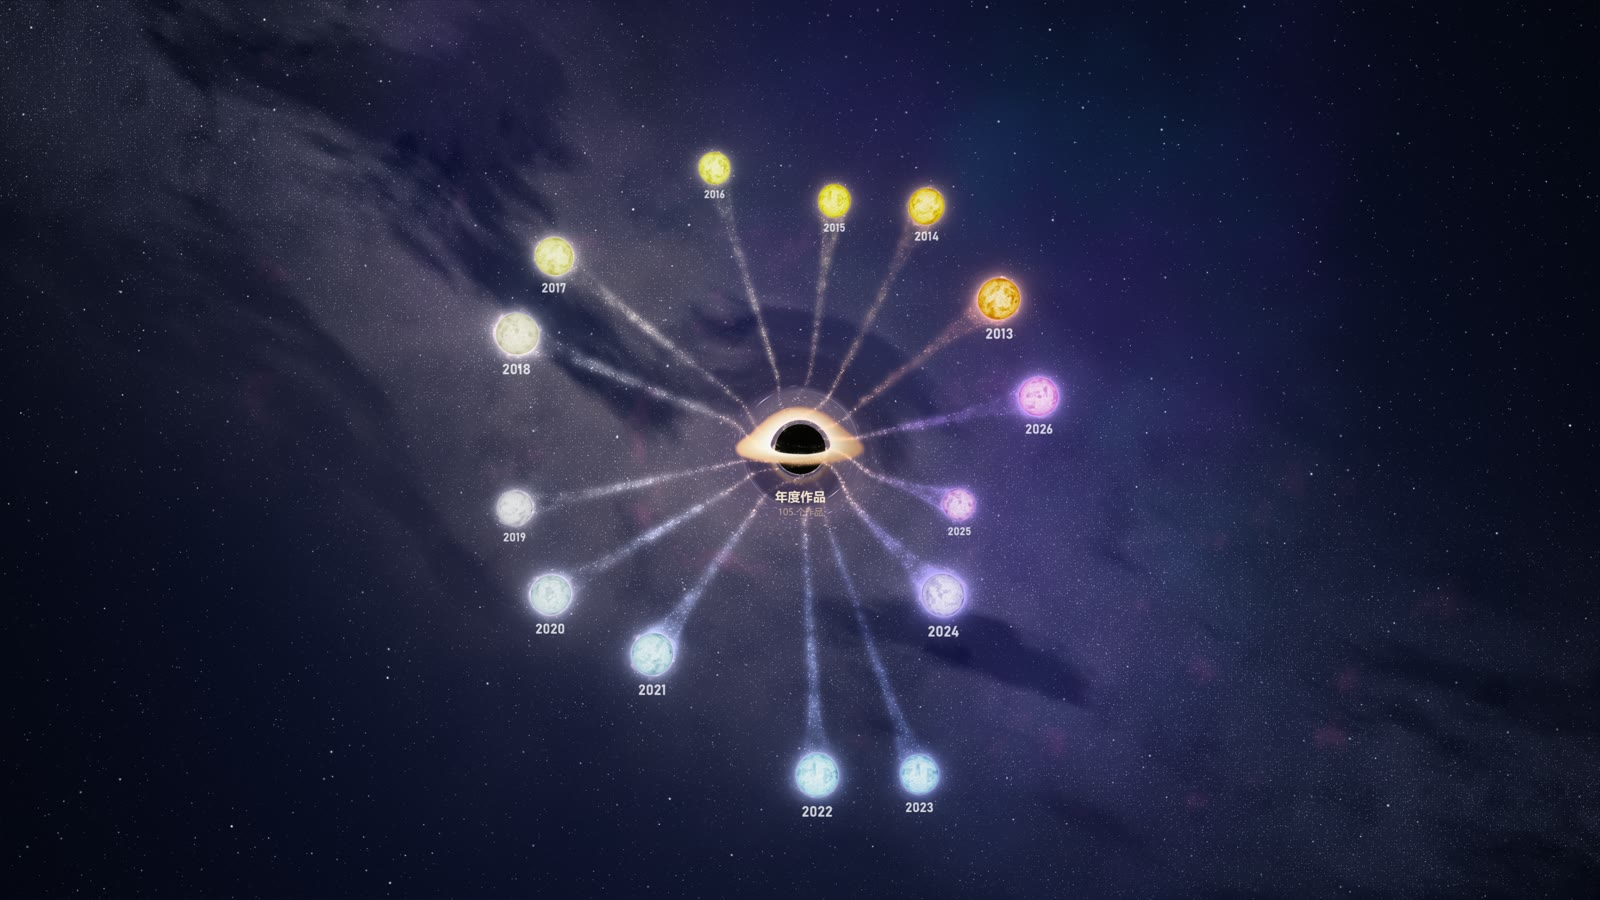
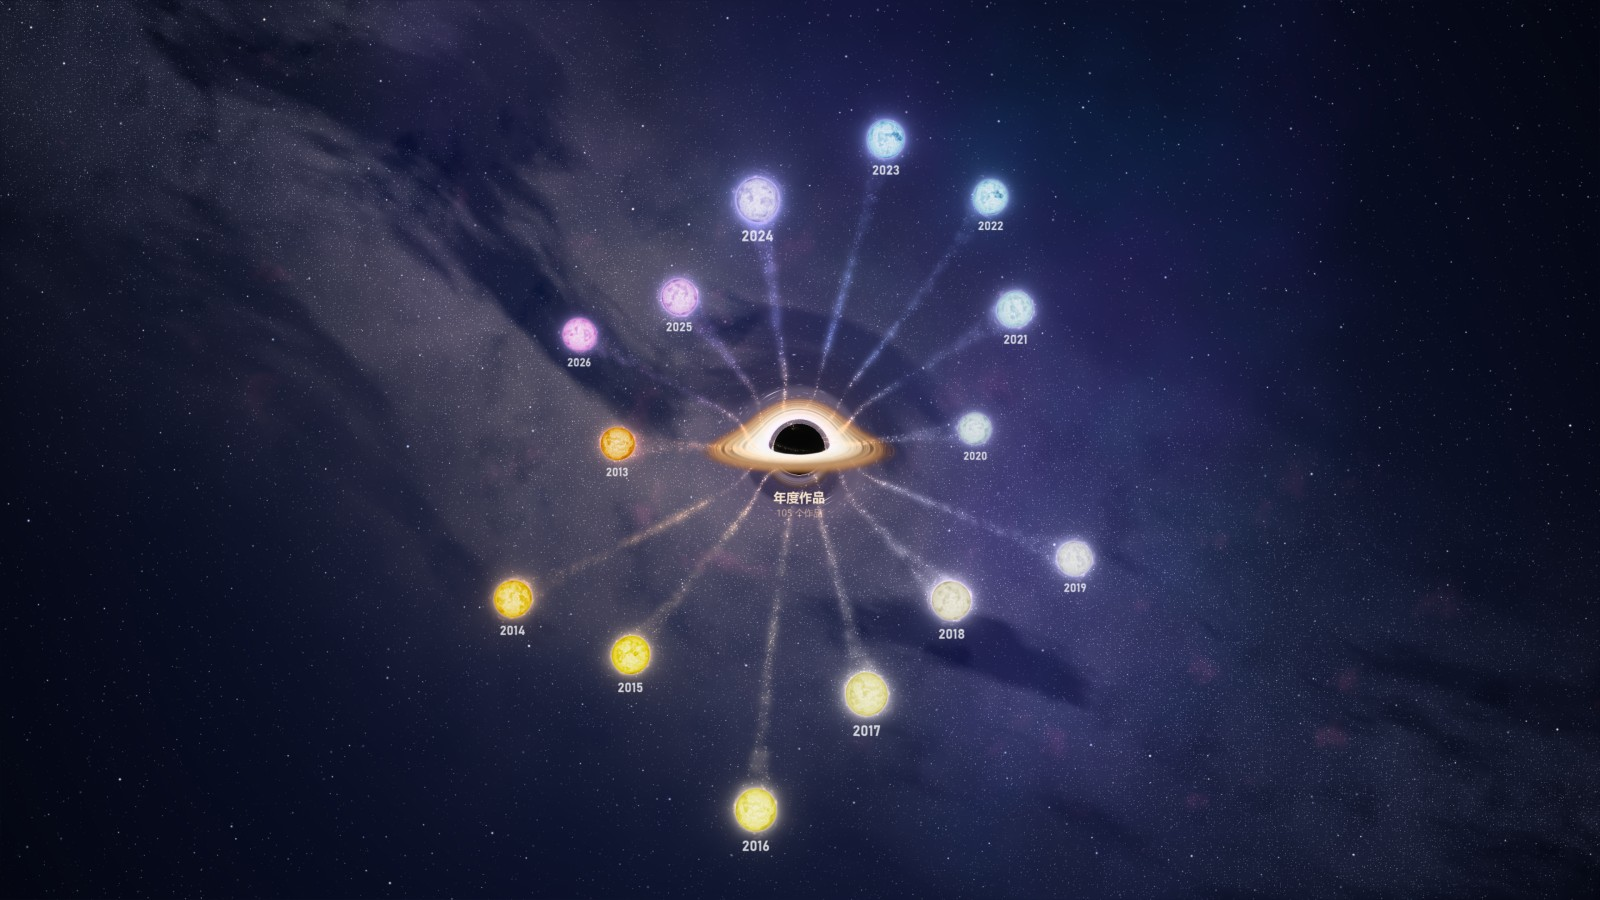
定版 v2026.10.27.1：整理代码（去掉调参用的开关，画面逐像素不变）；README 更新截图、补上 HDR 和 hdr.py

Changed region(s): [[0.2812, 0.1244, 0.6875, 0.9644], [0.625, 0.5911, 0.6875, 0.6533], [0.375, 0.5911, 0.4062, 0.6222]]

diff --git a/shaders.py b/shaders.py
@@ -168,39 +168,20 @@ float fbm4(vec2 p){ float v = 0., a = .5; for (int i = 0; i < 4; i++){ v += a * 
 const float R_IN = 2.3, R_OUT = 6.2;
 // 盘的外缘：全图 R_OUT_MAP、近景 R_OUT_CINE（见 Python 里的 DISK_OUT_*）。
 // 亮度、颜色、厚度按“缩回 R_OUT 大小后的半径” rn 算，大盘就是把原来的样子等比例拉宽；转速、多普勒、细丝按真实半径
-#ifndef R_OUT_MAP
-#define R_OUT_MAP DISK_OUT_MAP_
-#endif
-#ifndef R_OUT_CINE
-#define R_OUT_CINE DISK_OUT_CINE_
-#endif
-#ifndef TH_POW
-#define TH_POW 0.0
-#endif
+#define R_OUT_MAP ''' + repr(DISK_OUT_MAP) + '''
+#define R_OUT_CINE ''' + repr(DISK_OUT_CINE) + '''
 float ROUT = R_OUT, SC = 1.0;                               // 这一帧的盘外缘、拉宽了几倍（main 里按近景程度设）
 float rnorm(float rr){ return R_IN + (rr - R_IN) / SC; }
 // 星际穿越的样子：亮度往外掉得快（内圈白热、外圈暗成琥珀褐），沿轨道拉长的细丝（STREAK_F 每单位半径几道，
-// STREAK_MIX 改密度、STREAK_EMIT 改亮度），多普勒两边的差别减半（电影里几乎没有一边亮一边暗）。调参时可以在前面先 #define 覆盖
-#ifndef DISK_FALL
+// STREAK_MIX 改密度、STREAK_EMIT 改亮度），多普勒两边的差别减半（电影里几乎没有一边亮一边暗）
 #define DISK_FALL 2.6
-#endif
-#ifndef DISK_GAIN
 #define DISK_GAIN 2.4
-#endif
-#ifndef STREAK_F
 #define STREAK_F 5.0
-#endif
-#ifndef STREAK_MIX
 #define STREAK_MIX 0.7
-#endif
-#ifndef STREAK_EMIT
 #define STREAK_EMIT 0.7
-#endif
-#ifndef DOP_K
 #define DOP_K 0.5
-#endif
 // 盘有厚度（不是一张纸）：半厚度内薄外厚，外缘微微鼓起
-float halfH(float rr){ return (0.04 + 0.045 * (clamp(rnorm(rr), R_IN, R_OUT) - R_IN)) * pow(SC, TH_POW); }    // 拉宽时厚度不跟着等比例加厚，看起来更薄更开阔
+float halfH(float rr){ return 0.04 + 0.045 * (clamp(rnorm(rr), R_IN, R_OUT) - R_IN); }    // 拉宽时厚度不跟着加厚，看起来更薄更开阔
 // 盘里一点的发光颜色（rgb）和密度（a）
 vec4 disk(vec3 hit, float rr, vec3 v){
     float phi = atan(hit.z, hit.x);
@@ -322,8 +303,7 @@ void main(){
           + HL_GULP * vec3(1.0, 0.7, 0.45) * hv * hv * exp(-max(rq - 1.6, 0.0) * 1.2) * (1.0 - alpha)) * op * win;
 }
 '''
-HOLE_FS = with_hl(HOLE_FS.replace('#version 330', '#version 330\n' + HL_DEFS, 1)
-                  .replace('DISK_OUT_MAP_', repr(DISK_OUT_MAP)).replace('DISK_OUT_CINE_', repr(DISK_OUT_CINE)))
+HOLE_FS = with_hl(HOLE_FS.replace('#version 330', '#version 330\n' + HL_DEFS, 1))
 
 # 恒星：照着太阳实拍的样子——会自转的球面上有米粒状的对流元胞、明暗斑、几个黑子（本影 + 半影），边缘变暗偏红，
 # 边上一圈色球层和一缕缕往外喷的日珥，外面是带放射状亮纹的日冕。朝黑洞那一侧被潮汐轻轻拉出一点，物质从那里被吸走
@@ -332,12 +312,8 @@ STAR_FS = '''
 #define STAR_EXPO 0.85
 #define PALE_K 0.8
 #define PALE_SAT 1.0
-#ifndef STAR_SPIN
 #define STAR_SPIN 0.1
-#endif
-#ifndef RIM_K
 #define RIM_K 0.9
-#endif
 #define GRAIN ''' + repr(GRAIN) + '''
 #define GRAIN_SPAN ''' + repr(GRAIN_SPAN) + '''
 #define GRAIN_GO ''' + repr(GRAIN_GO) + '''

diff --git a/mindmap.py b/mindmap.py
@@ -27,7 +27,6 @@ STAR_COLORS = ['#ff9a5c', '#ffc46b', '#ffe6a8', '#fff4e0', '#e4ecff', '#b9cfff',
 DISK_COLOR = QColor('#ffb36b')        # 黑洞吸积盘的颜色，中心到年份的光线从这个颜色开始
 
 SS = 2                    # 超采样倍数（内部按几倍分辨率画）
-HOLE_RES = 1.0            # 黑洞光追按屏幕分辨率的几倍画（最费显卡的一遍；0.75 倍省约 30%，但放大看会糊，用户要清楚）
 MAX_TEX = 4096            # 内部画布最大边长
 # 内部 HDR：中间画布都是 16 位浮点，叠加的光不会被截断，很淡的粒子也不会被舍掉；最后一遍统一加辉光、压亮度、抖动（FINAL_FS）。
 # 辉光从画面里比 BLOOM_T 亮的部分取（文字不算），BLOOM_LEVELS 层由近到远的柔光，BLOOM_K 是强度
@@ -1245,8 +1244,7 @@ class MindMap(QWidget):
         """黑洞逐像素追光线很费显卡，而且画面本身很柔和：按屏幕原分辨率单独画（像素少 4 倍），再放大叠进超采样画布。"""
         ctx = self.ctx
         vw, vh = self.width(), self.height()
-        hs = HOLE_RES                           # 黑洞画面很柔和，再低一点分辨率画也看不出来
-        hw_, hh_ = max(1, int(vw * dpr * hs)), max(1, int(vh * dpr * hs))
+        hw_, hh_ = max(1, int(vw * dpr)), max(1, int(vh * dpr))
         on = self._out[0]
         hname = 'hole_hl' if on else 'hole'
         hfbo, _, htex = self._offscreen(hname, hw_, hh_, hl=on)

diff --git a/app.py b/app.py
@@ -13,7 +13,7 @@ from widgets import EditDialog
 from mindmap import MindMap
 from fluent_ui import make_app, Window, show_window, single_instance
 
-VERSION = '2026.10.27'                    # 日历版本号：发布当天的日期，同一天再发就加 .1、.2
+VERSION = '2026.10.27.1'                    # 日历版本号：发布当天的日期，同一天再发就加 .1、.2
 ACCENT = '#29c4f6'                        # 导图是深色霓虹风，界面固定用深色 + 青色主题色
 
 

diff --git a/README.md b/README.md
@@ -2,7 +2,7 @@
 
 记录每年喜欢的作品，画成一张会动的星图。Windows 桌面程序，记录只存在自己电脑上，不联网、不上传。
 
-中间是黑洞，每一年是一颗恒星，点恒星展开这一年的分类和作品；整张图用显卡着色器实时渲染。
+中间是黑洞，每一年是一颗恒星，点恒星展开这一年的分类和作品；整张图用显卡着色器实时渲染，HDR 显示器上直接输出 HDR。
 
 ![全图](docs/全图.jpg)
 
@@ -13,11 +13,12 @@
 - **按年份记录「年度作品」**：文学作品 / 音乐 / 小说 / 电视剧 / 电影 / 动漫 / 综艺 / 鬼畜/梗 / 游戏
 - **每个作品**：名字、作者（歌手 / 作者）、10 星评分、短评、封面（拖图片进去或 Ctrl+V 粘贴截图），鼠标放在作品上显示封面
 - **星图**：
-  - 光线追踪的黑洞（吸积盘、光子环、背景星空的引力透镜）
+  - 光线追踪的黑洞（参考《星际穿越》的宽吸积盘、光子环、背景星空的引力透镜）
   - 恒星表面翻涌，物质流从恒星流进黑洞
   - 分类和作品是半透明黑水晶胶囊，收起时碎成晶尘
   - 点黑洞，所有恒星碎成颗粒被吸进去；再点一次从黑洞里喷出来，重新凝成恒星
   - 全图里可以拖动恒星，拖到黑洞跟前松手会单独收进去
+- **HDR**：Windows 设置里打开 HDR 时，吸积盘、恒星、文字会比白色更亮（最亮约 750 尼特，显示器峰值更低时按显示器的）；普通显示器照常显示
 - **从 MarginNote 3 导入**：以前用 MarginNote 做过「每年看过的作品」思维导图的，可以「导出到 OmniOutliner」后导入（也支持 OPML）
 
 ## 下载使用（不用装 Python）
@@ -56,7 +57,8 @@ python -m venv .venv
 | 文件 | 作用 |
 | --- | --- |
 | `app.py` | 主窗口：星图铺满窗口，右上角导入 / 添加年份，编辑对话框的调度 |
-| `mindmap.py` | 星图：布局、动画、鼠标交互，用 moderngl 在 QOpenGLWidget 里渲染 |
+| `mindmap.py` | 星图：布局、动画、鼠标交互，用 moderngl 渲染 |
+| `hdr.py` | 把画面送上屏幕：D3D11 交换链（HDR 屏输出 scRGB），按钮和对话框画成界面层叠在最上面 |
 | `shaders.py` | 所有着色器：星空、黑洞光线追踪、恒星、胶囊、文字、辉光和收尾 |
 | `stream.py` | 恒星流向黑洞的物质流（显卡粒子，transform feedback） |
 | `shards.py` | 恒星解体 / 重新凝结的气体和碎片（显卡上模拟引力） |
